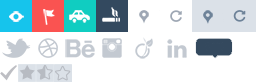
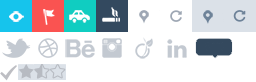
Homepage-starsFix

Changed region(s): [[0.0625, 0.7805, 0.2812, 1.0]]

diff --git a/Hello/index.html b/Hello/index.html
@@ -219,31 +219,12 @@
                     <div class="locaName7">Mérignac</div>
                     <div class="reloadIco7 locaMark reloadIcoStyle2"></div>
                     <div class="block7date">jan 2004 - jan 2006</div>
-                    <div>
-                        <div class="star-rating star-rating1">
-                            <div class="star-rating__wrap">
-                                <input class="star-rating__input" id="star-rating-5" type="radio" name="rating"
-                                    value="5">
-                                <label class="star-rating__ico fa fa-star-o fa-lg" for="star-rating-5"
-                                    title="5 out of 5 stars"></label>
-                                <input class="star-rating__input" id="star-rating-4" type="radio" name="rating"
-                                    value="4">
-                                <label class="star-rating__ico fa fa-star-o fa-lg" for="star-rating-4"
-                                    title="4 out of 5 stars"></label>
-                                <input class="star-rating__input" id="star-rating-3" type="radio" name="rating"
-                                    value="3">
-                                <label class="star-rating__ico fa fa-star-o fa-lg" for="star-rating-3"
-                                    title="3 out of 5 stars"></label>
-                                <input class="star-rating__input" id="star-rating-2" type="radio" name="rating"
-                                    value="2">
-                                <label class="star-rating__ico fa fa-star-o fa-lg" for="star-rating-2"
-                                    title="2 out of 5 stars"></label>
-                                <input class="star-rating__input" id="star-rating-1" type="radio" name="rating"
-                                    value="1">
-                                <label class="star-rating__ico fa fa-star-o fa-lg" for="star-rating-1"
-                                    title="1 out of 5 stars"></label>
-                            </div>
-                        </div>
+                    <div class="starRating">
+                        <div class="star1 stars"></div>
+                        <div class="star1 stars"></div>
+                        <div class="star1 stars"></div>
+                        <div class="star1 stars"></div>
+                        <div class="star5 stars"></div>
                     </div>
                 </div>
             </div>
@@ -259,29 +240,12 @@
                     <div class="reloadIco8 locaMark reloadIcoStyle2"></div>
                     <div class="block8date">jan 2002 - jan 2004</div>
                     <div>
-                        <div class="star-rating star-rating2">
-                            <div class="star-rating__wrap">
-                                <input class="star-rating__input" id="star-rating-5" type="radio" name="rating"
-                                    value="5">
-                                <label class="star-rating__ico fa fa-star-o fa-lg" for="star-rating-5"
-                                    title="5 out of 5 stars"></label>
-                                <input class="star-rating__input" id="star-rating-4" type="radio" name="rating"
-                                    value="4">
-                                <label class="star-rating__ico fa fa-star-o fa-lg" for="star-rating-4"
-                                    title="4 out of 5 stars"></label>
-                                <input class="star-rating__input" id="star-rating-3" type="radio" name="rating"
-                                    value="3">
-                                <label class="star-rating__ico fa fa-star-o fa-lg" for="star-rating-3"
-                                    title="3 out of 5 stars"></label>
-                                <input class="star-rating__input" id="star-rating-2" type="radio" name="rating"
-                                    value="2">
-                                <label class="star-rating__ico fa fa-star-o fa-lg" for="star-rating-2"
-                                    title="2 out of 5 stars"></label>
-                                <input class="star-rating__input" id="star-rating-1" type="radio" name="rating"
-                                    value="1">
-                                <label class="star-rating__ico fa fa-star-o fa-lg" for="star-rating-1"
-                                    title="1 out of 5 stars"></label>
-                            </div>
+                        <div class="starRating2">
+                            <div class="star1 stars"></div>
+                            <div class="star1 stars"></div>
+                            <div class="star6 stars"></div>
+                            <div class="star7 stars"></div>
+                            <div class="star7 stars"></div>
                         </div>
                     </div>
                 </div>

diff --git a/Hello/style.css b/Hello/style.css
@@ -304,35 +304,41 @@ html{
 }
 
 /* звезды */
-.star-rating{
-	font-size: 0;
+.starRating{
+    float: left;
+    margin-top: 17px;
+    margin-left: 208px;
 }
-.star-rating__wrap{
-	display: inline-block;
-    font-size: 13px;
+
+.stars{
+    display: inline-block;
+    width: 16px;
+    height: 16px;
+    background: #DBE1E8 url("img/smallICO.png") no-repeat;
 }
-.star-rating__wrap:after{
-	content: "";
-	display: table;
-	clear: both;
+
+.star1{
+    background-position: -18px -64px;
 }
-.star-rating__ico{
-	float: right;
-	padding-left: 3px;
-	cursor: pointer;
-	color: #B7BBC2;
+
+.star5{
+    margin-left: 4px;
+    background-position: -34px -64px;
 }
-.star-rating__ico:last-child{
-	padding-left: 0;
+
+.starRating2{
+    float: left;
+    margin-top: 15px;
+    margin-left: 209px;
 }
-.star-rating__input{
-	display: none;
+
+.star6{
+    background-position: -34px -64px;
 }
-.star-rating__ico:hover:before,
-.star-rating__ico:hover ~ .star-rating__ico:before,
-.star-rating__input:checked ~ .star-rating__ico:before
-{
-	content: "\f005";
+
+.star7{
+    margin-left: 2px;
+    background-position: -50px -64px;
 }
 
 /* левая колонка */
